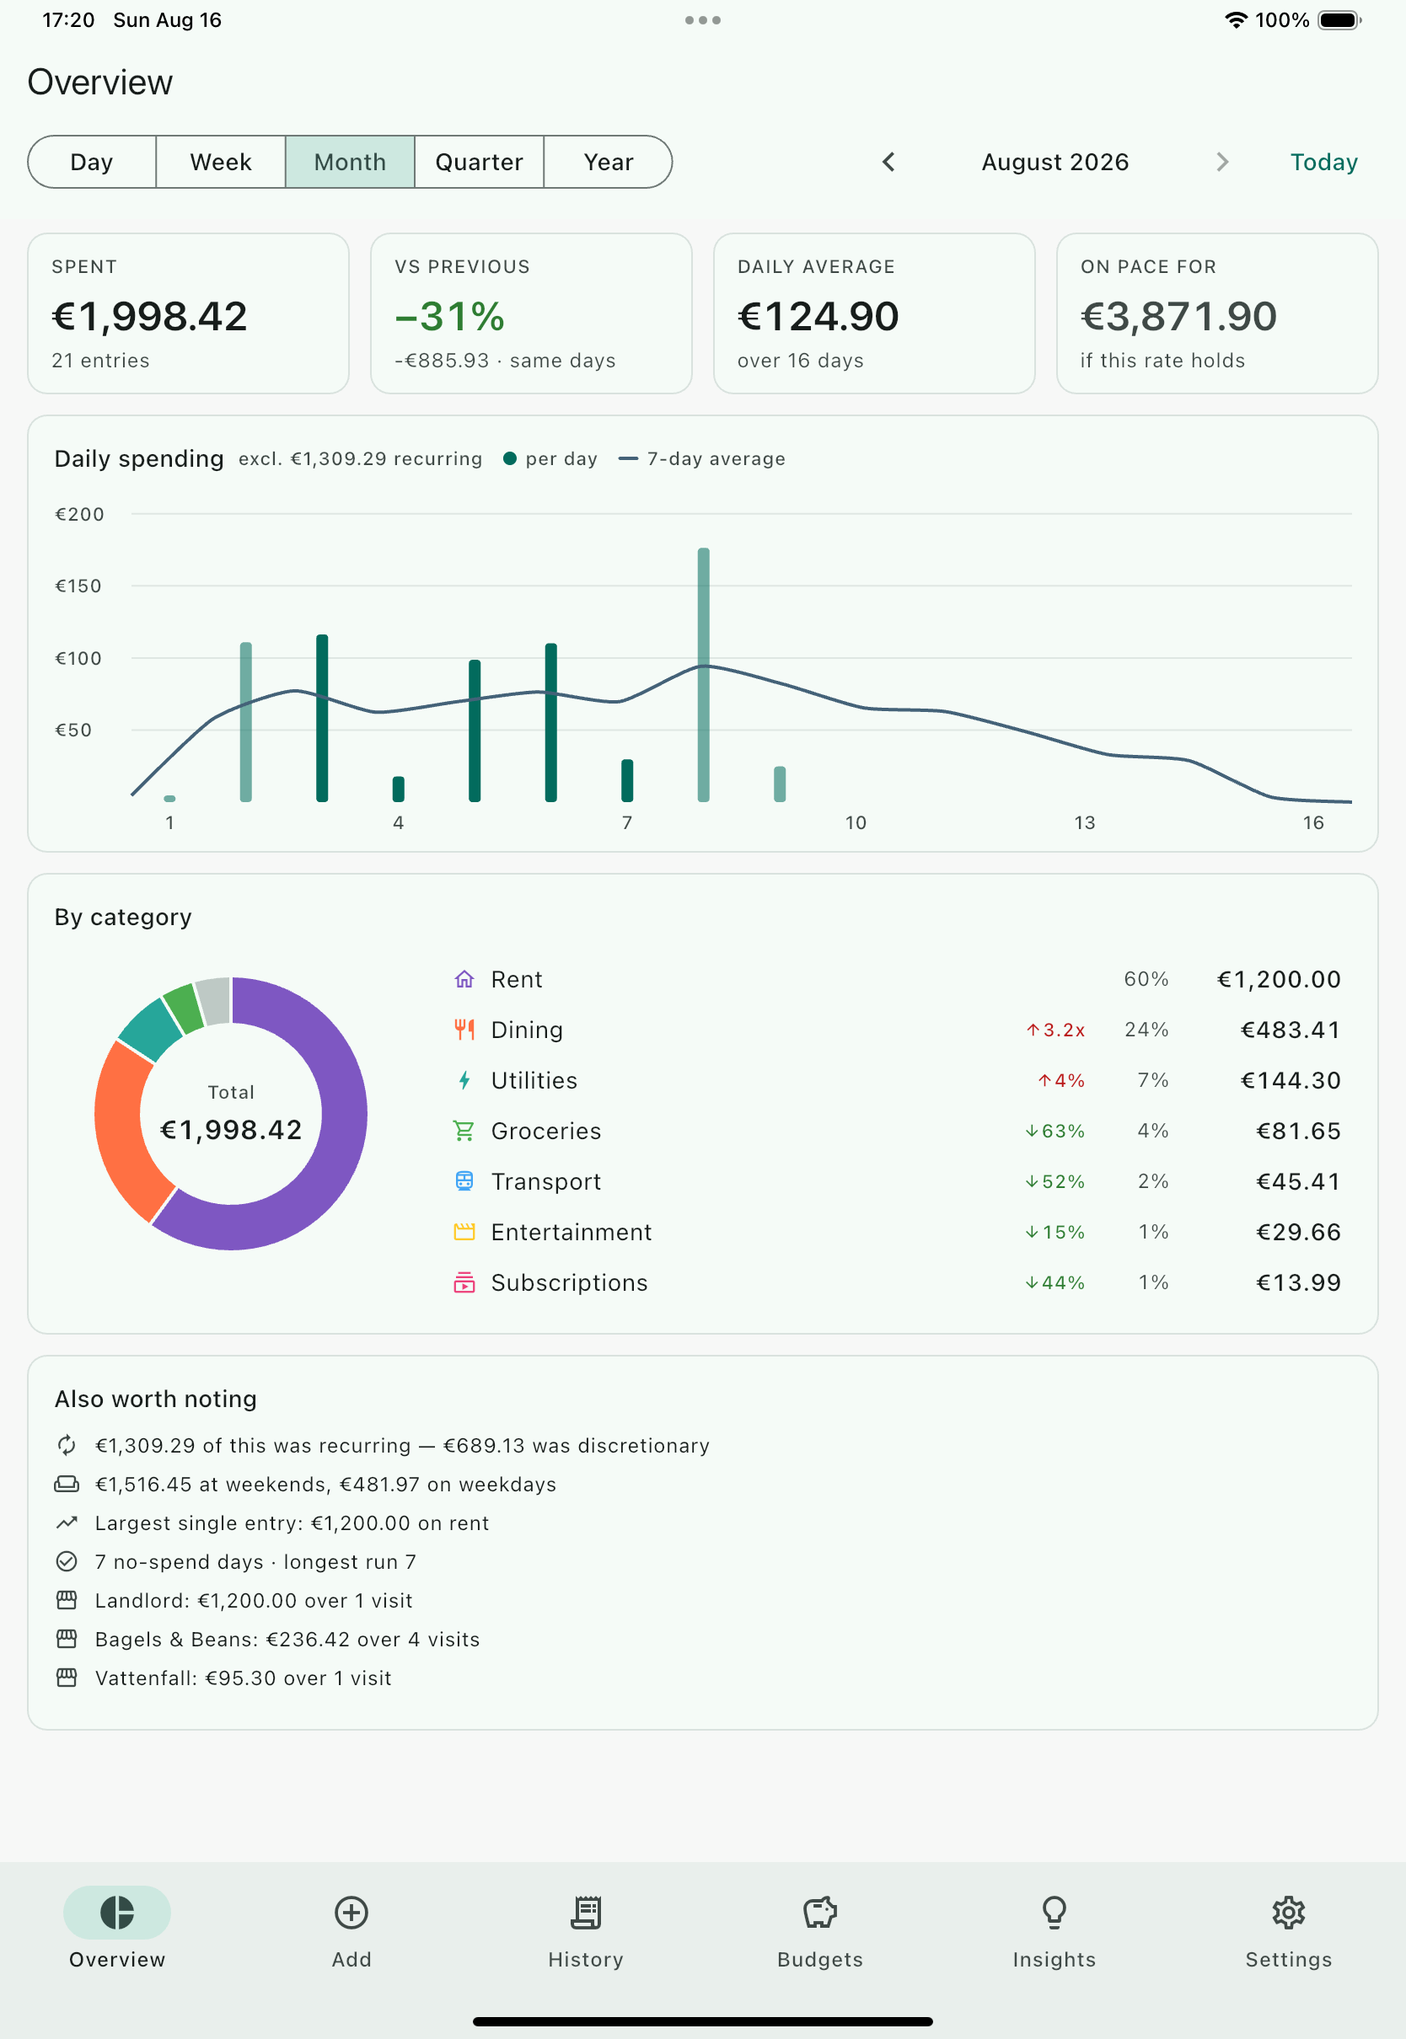
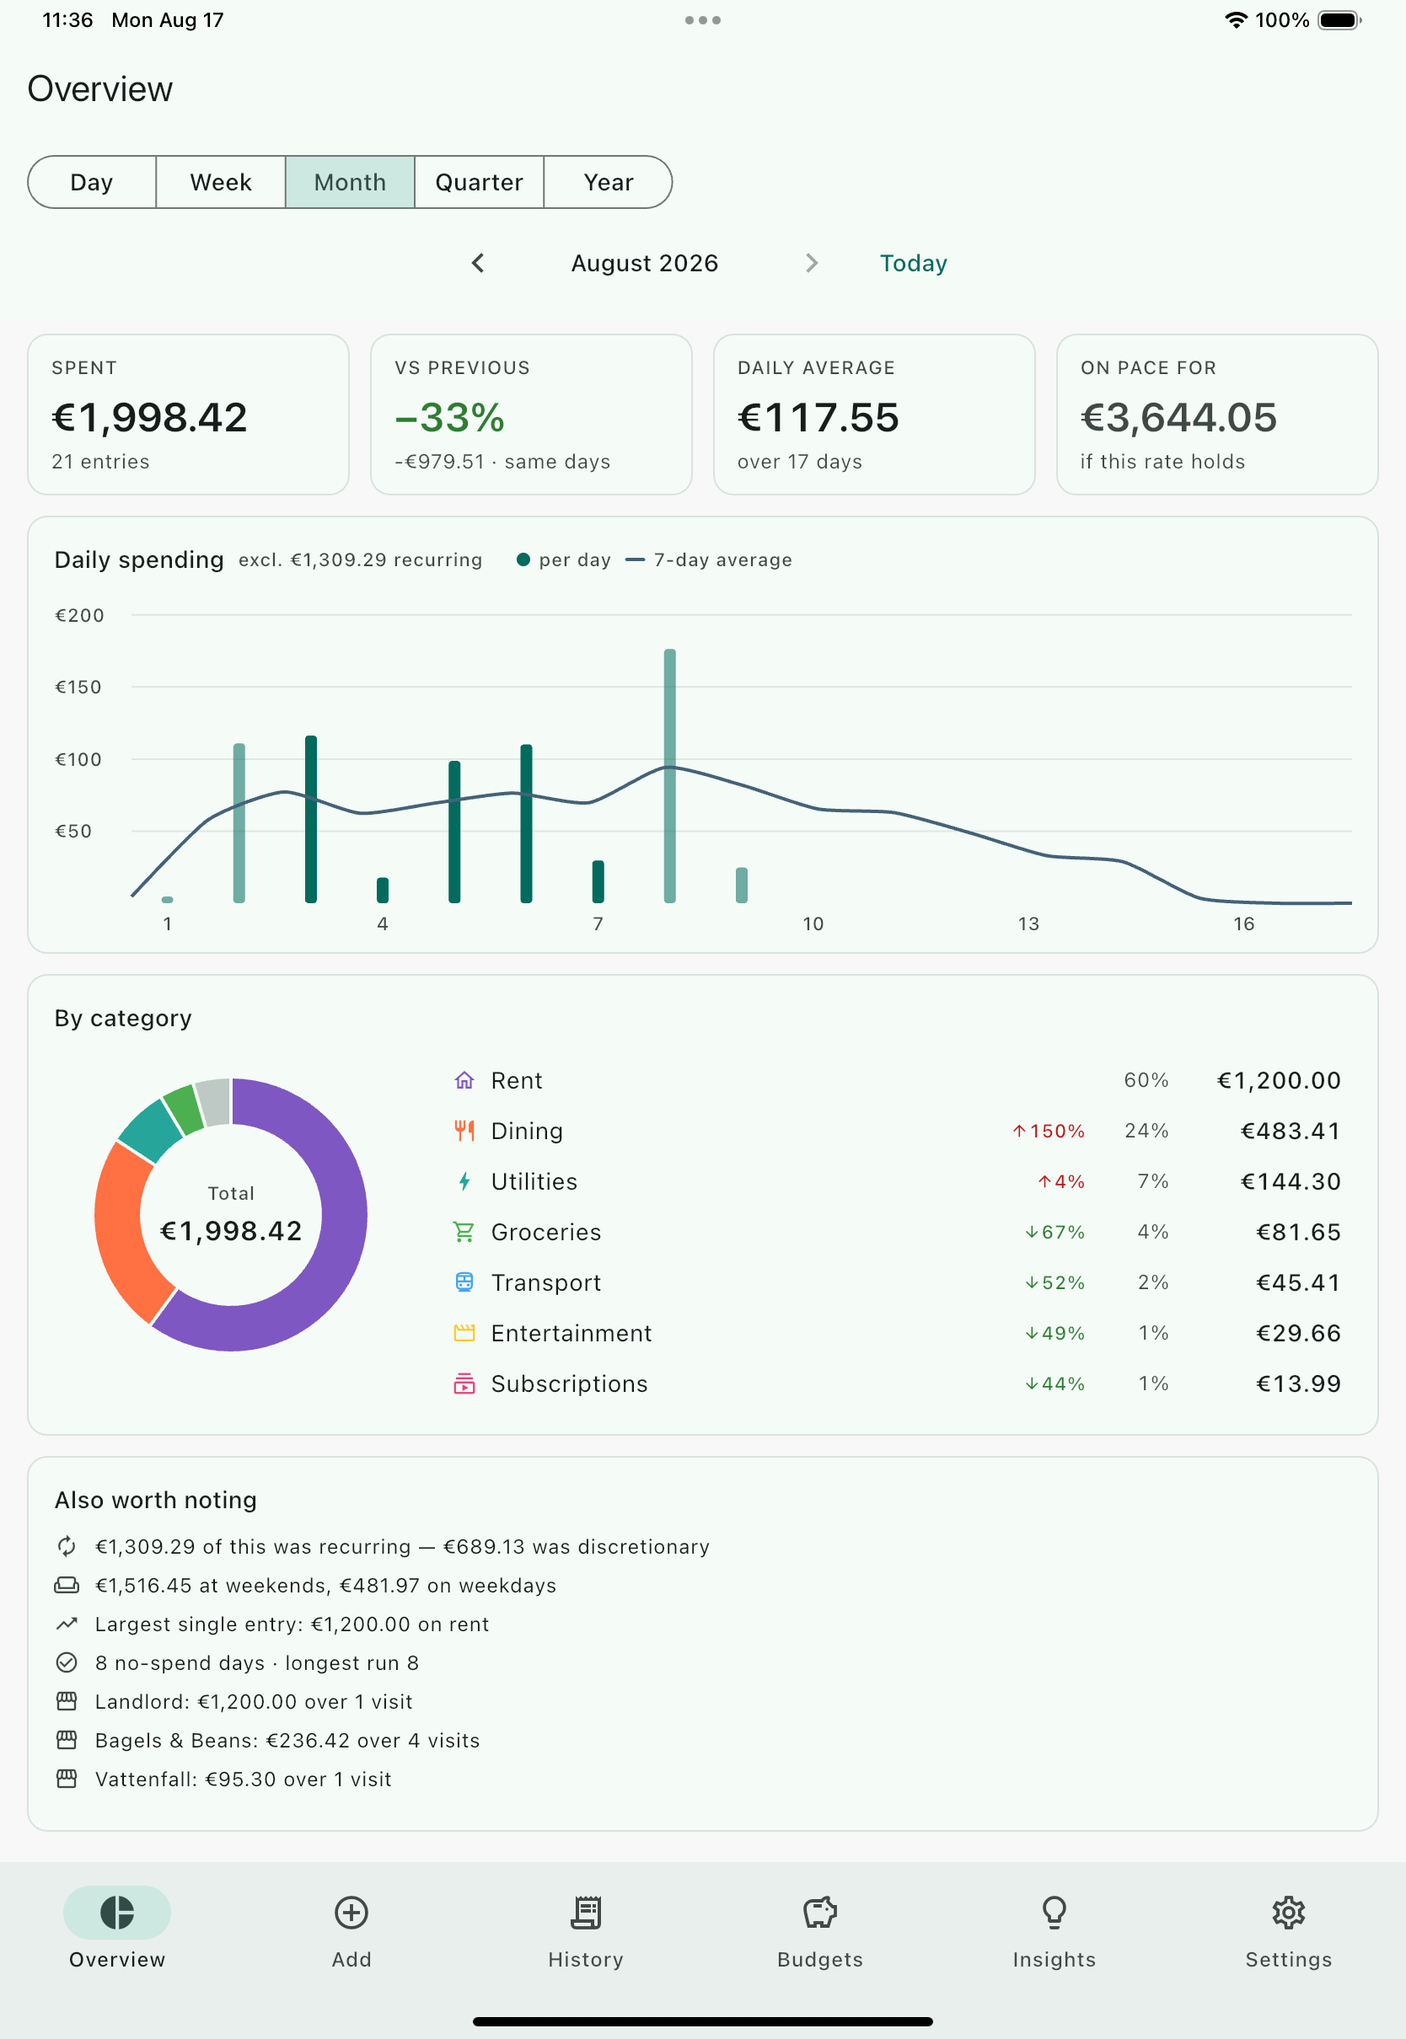
Address the review: one measurement, and a test that proves it
Copilot raised four points on the first pass. All four were correct, and
the first two were defects I introduced.

The width band. The AppBar's reserved height was computed from the raw
MediaQuery width while the bar decided its own layout from LayoutBuilder
constraints — which are narrower, because ContentWidth clamps to 1000 and
the bar's own padding takes 32 more. Between 730 and 762pt the two
disagreed: the bar stacked under a slot sized for one row, clipping the
title again.

Rather than reconcile the two numbers, the bar has moved out of
AppBar.bottom and into the top of the body. A PreferredSize is handed a
height instead of measuring its child, so anything in that slot whose
height depends on layout has to be measured twice. In the body it simply
takes the height it needs, and the whole class of bug goes with it.

The nested Row. The chart header's Wrap had a Row as its first child, so
that pair could still overflow on its own while the Wrap around it sat
with room to spare. All four items are direct children now.

The threshold was also wrong on its own terms. Measured against the
rendered iPad at 802pt the row wanted about 785 — seventeen points of
headroom, which "September 2026" would have swallowed. It is 960 now,
which stacks the iPad rather than risking a clipped one.

The test. There was no coverage, which is exactly why three overflows
shipped: every existing widget test runs on a 1280x900 surface. The new
[…]

diff --git a/lib/features/dashboard/dashboard_screen.dart b/lib/features/dashboard/dashboard_screen.dart
@@ -19,41 +19,51 @@ class DashboardScreen extends ConsumerWidget {
   Widget build(BuildContext context, WidgetRef ref) {
     final summaryAsync = ref.watch(periodSummaryProvider);
 
-    // The period bar stacks into two rows below [_PeriodBar.wideEnough], and
-    // an AppBar bottom is given a fixed height rather than measuring its child
-    // — so a single figure here clips the title on a phone.
-    final stacked = MediaQuery.sizeOf(context).width < _PeriodBar.wideEnough;
-
+    // The period bar sits at the top of the body rather than in the AppBar's
+    // `bottom`.
+    //
+    // A PreferredSize is given a height rather than measuring its child, so
+    // putting a bar there that changes height means computing that height
+    // separately from the layout that produces it — two measurements that
+    // have to agree, and did not: there was a band of widths where the bar
+    // stacked while only the single-row height had been reserved, clipping
+    // the title. Here the bar simply takes the height it needs.
     return Scaffold(
-      appBar: AppBar(
-        title: const Text('Overview'),
-        centerTitle: false,
-        bottom: PreferredSize(
-          preferredSize: Size.fromHeight(stacked ? 104 : 50),
-          child: const ContentWidth(maxWidth: 1000, child: _PeriodBar()),
-        ),
-      ),
-      body: summaryAsync.when(
-        loading: () => const Center(child: CircularProgressIndicator()),
-        error: (e, _) =>
-            Center(child: Text('Could not analyse this period: $e')),
-        data: (summary) => ContentWidth(
-          maxWidth: 1000,
-          child: summary.isEmpty
-              ? const _EmptyPeriod()
-              : ListView(
-                  padding: const EdgeInsets.fromLTRB(16, 8, 16, 32),
-                  children: [
-                    SummaryCards(summary: summary),
-                    const SizedBox(height: 12),
-                    DailySpendChart(summary: summary),
-                    const SizedBox(height: 12),
-                    CategoryBreakdown(summary: summary),
-                    const SizedBox(height: 12),
-                    _FootNotes(summary: summary),
-                  ],
-                ),
-        ),
+      appBar: AppBar(title: const Text('Overview'), centerTitle: false),
+      body: Column(
+        children: [
+          Material(
+            color: Theme.of(context).appBarTheme.backgroundColor,
+            child: const ContentWidth(
+              maxWidth: _PeriodBar.contentMaxWidth,
+              child: _PeriodBar(),
+            ),
+          ),
+          Expanded(
+            child: summaryAsync.when(
+              loading: () => const Center(child: CircularProgressIndicator()),
+              error: (e, _) =>
+                  Center(child: Text('Could not analyse this period: $e')),
+              data: (summary) => ContentWidth(
+                maxWidth: 1000,
+                child: summary.isEmpty
+                    ? const _EmptyPeriod()
+                    : ListView(
+                        padding: const EdgeInsets.fromLTRB(16, 8, 16, 32),
+                        children: [
+                          SummaryCards(summary: summary),
+                          const SizedBox(height: 12),
+                          DailySpendChart(summary: summary),
+                          const SizedBox(height: 12),
+                          CategoryBreakdown(summary: summary),
+                          const SizedBox(height: 12),
+                          _FootNotes(summary: summary),
+                        ],
+                      ),
+              ),
+            ),
+          ),
+        ],
       ),
     );
   }
@@ -63,12 +73,18 @@ class DashboardScreen extends ConsumerWidget {
 class _PeriodBar extends ConsumerWidget {
   const _PeriodBar();
 
-  /// Width at which the segments and the stepper fit on one line.
+  static const contentMaxWidth = 1000.0;
+
+  /// Width the bar itself needs before the segments and the stepper are put on
+  /// one line.
   ///
-  /// Five segments plus a labelled stepper need roughly this much; below it
-  /// they overflowed the row outright on an iPhone. Shared with the AppBar,
-  /// which has to reserve the taller slot for the stacked layout.
-  static const wideEnough = 730.0;
+  /// Deliberately generous. Measured against a rendered iPad at 802pt the row
+  /// wanted about 785 — seventeen points of headroom, which "September 2026"
+  /// would have swallowed, never mind a longer locale or a wider font. The
+  /// first attempt at this number was 730 and overflowed in production for
+  /// exactly that reason. Stacking early costs one line; guessing low costs a
+  /// clipped layout, so the bias belongs on this side.
+  static const wideEnough = 960.0;
 
   @override
   Widget build(BuildContext context, WidgetRef ref) {
@@ -123,10 +139,11 @@ class _PeriodBar extends ConsumerWidget {
       TextButton(onPressed: notifier.jumpToToday, child: const Text('Today')),
     ];
 
-    // Below the threshold the two groups stack, and the segments scroll
-    // horizontally so the row cannot overflow again at any width or text scale.
+    // Measured here rather than from the window, so the decision is made
+    // against the width the bar is actually given. Stacked, neither group can
+    // overflow: the segments scroll and the stepper wraps.
     return Padding(
-      padding: const EdgeInsets.fromLTRB(16, 0, 16, 10),
+      padding: const EdgeInsets.fromLTRB(16, 8, 16, 10),
       child: LayoutBuilder(
         builder: (context, constraints) {
           if (constraints.maxWidth >= wideEnough) {
@@ -140,8 +157,9 @@ class _PeriodBar extends ConsumerWidget {
                 child: periods,
               ),
               const SizedBox(height: 4),
-              Row(
-                mainAxisAlignment: MainAxisAlignment.center,
+              Wrap(
+                alignment: WrapAlignment.center,
+                crossAxisAlignment: WrapCrossAlignment.center,
                 children: stepper,
               ),
             ],

diff --git a/test/widget/dashboard_layout_test.dart b/test/widget/dashboard_layout_test.dart
@@ -1,0 +1,131 @@
+import 'package:drift/drift.dart' show Value;
+import 'package:flutter/material.dart';
+import 'package:flutter_riverpod/flutter_riverpod.dart';
+import 'package:flutter_test/flutter_test.dart';
+import 'package:spend/core/day.dart';
+import 'package:spend/core/money.dart';
+import 'package:spend/core/providers.dart';
+import 'package:spend/data/db/database.dart';
+import 'package:spend/features/dashboard/dashboard_screen.dart';
+
+/// Overflow guards for the dashboard at phone widths.
+///
+/// The existing widget tests all run on a 1280x900 surface, which is why three
+/// separate RenderFlex overflows shipped without CI noticing. A `RenderFlex
+/// overflowed` error is reported to the framework rather than thrown, so it
+/// surfaces here through `tester.takeException()`.
+void main() {
+  late SpendDatabase db;
+
+  setUp(() => db = SpendDatabase.memory());
+  tearDown(() => db.close());
+
+  /// The dashboard needs data: an empty period renders a placeholder instead
+  /// of the charts, which would make every one of these tests pass vacuously.
+  Future<void> seed() async {
+    for (var i = 0; i < 12; i++) {
+      await db
+          .into(db.transactions)
+          .insert(
+            TransactionsCompanion.insert(
+              amountMinor: Money(1240 + i * 100),
+              categoryId: (i % 4) + 1,
+              occurredOn: Day.today().firstOfMonth.addDays(i),
+              merchant: Value('Merchant $i'),
+            ),
+          );
+    }
+    // A recurring cost, so the chart header renders its "excl. … recurring"
+    // note — the widest of its four items and the one that overflowed.
+    await db
+        .into(db.transactions)
+        .insert(
+          TransactionsCompanion.insert(
+            amountMinor: Money(120000),
+            categoryId: 4,
+            occurredOn: Day.today().firstOfMonth,
+            merchant: const Value('Landlord'),
+          ),
+        );
+  }
+
+  Future<void> pumpAt(
+    WidgetTester tester,
+    Size size, {
+    double textScale = 1.0,
+  }) async {
+    tester.view.physicalSize = size;
+    tester.view.devicePixelRatio = 1.0;
+    addTearDown(tester.view.reset);
+
+    await tester.pumpWidget(
+      ProviderScope(
+        overrides: [databaseProvider.overrideWithValue(db)],
+        child: MaterialApp(
+          home: MediaQuery(
+            data: MediaQueryData(
+              size: size,
+              textScaler: TextScaler.linear(textScale),
+            ),
+            child: const DashboardScreen(),
+          ),
+        ),
+      ),
+    );
+    await tester.pumpAndSettle();
+  }
+
+  Future<void> disposeHost(WidgetTester tester) async {
+    await tester.pumpWidget(const SizedBox());
+    await tester.pump(const Duration(milliseconds: 1));
+  }
+
+  /// Widths worth pinning, and why each one is here.
+  const widths = <String, double>{
+    'iPhone portrait': 402, // where the 328pt and 84pt overflows appeared
+    'iPhone landscape': 874,
+    'iPad portrait': 834,
+    'iPad landscape': 1194,
+    // 730-762 is the band where the AppBar height and the bar's own layout
+    // used to disagree, stacking the bar under a slot sized for one row.
+    'inside the old disagreement band': 745,
+    'at its upper edge': 762,
+    'desktop': 1280,
+    'wide desktop': 1600,
+  };
+
+  for (final entry in widths.entries) {
+    testWidgets('lays out without overflow at ${entry.key}', (tester) async {
+      await seed();
+      await pumpAt(tester, Size(entry.value, 900));
+
+      expect(
+        tester.takeException(),
+        isNull,
+        reason: '${entry.key} (${entry.value}pt) overflowed',
+      );
+      await disposeHost(tester);
+    });
+  }
+
+  testWidgets('the title survives the stacked bar', (tester) async {
+    await seed();
+    await pumpAt(tester, const Size(402, 900));
+
+    // The regression this guards is the AppBar reserving the single-row height
+    // while the bar stacked, which pushed the title out of its own slot.
+    expect(find.text('Overview'), findsOneWidget);
+    final title = tester.getRect(find.text('Overview'));
+    expect(title.top, greaterThanOrEqualTo(0));
+    expect(title.height, greaterThan(0));
+    await disposeHost(tester);
+  });
+
+  testWidgets('survives an accessibility text scale', (tester) async {
+    await seed();
+    await pumpAt(tester, const Size(402, 900), textScale: 1.8);
+
+    expect(tester.takeException(), isNull);
+    await disposeHost(tester);
+  });
+}

diff --git a/lib/features/dashboard/widgets/daily_spend_chart.dart b/lib/features/dashboard/widgets/daily_spend_chart.dart
@@ -56,33 +56,32 @@ class DailySpendChart extends ConsumerWidget {
           children: [
             // Wrap rather than Row: the title, the "excl. recurring" note and
             // two legend entries fit on one line in a desktop window and are
-            // 84pt too wide on an iPhone. Wrapping reflows them onto a second
-            // line instead of overflowing, at any width or text scale.
+            // 84pt too wide on an iPhone.
+            //
+            // All four are direct children. Grouping the title and the note
+            // into a nested Row would reintroduce the same failure one level
+            // down — a Row cannot wrap, so at a large enough text scale that
+            // pair alone would overflow while the Wrap around it sat with
+            // space to spare.
             Wrap(
               crossAxisAlignment: WrapCrossAlignment.center,
-              spacing: 12,
+              spacing: 8,
               runSpacing: 4,
               children: [
-                Row(
-                  mainAxisSize: MainAxisSize.min,
-                  children: [
-                    Text('Daily spending', style: theme.textTheme.titleSmall),
-                    if (excludedFixed) ...[
-                      const SizedBox(width: 8),
-                      Tooltip(
-                        message:
-                            'Recurring costs like rent land as one large '
-                            'payment and would flatten the rest of the chart.',
-                        child: Text(
-                          'excl. ${money.format(summary.fixedTotal)} recurring',
-                          style: theme.textTheme.labelSmall?.copyWith(
-                            color: scheme.onSurfaceVariant,
-                          ),
-                        ),
+                Text('Daily spending', style: theme.textTheme.titleSmall),
+                if (excludedFixed)
+                  Tooltip(
+                    message:
+                        'Recurring costs like rent land as one large '
+                        'payment and would flatten the rest of the chart.',
+                    child: Text(
+                      'excl. ${money.format(summary.fixedTotal)} recurring',
+                      style: theme.textTheme.labelSmall?.copyWith(
+                        color: scheme.onSurfaceVariant,
                       ),
-                    ],
-                  ],
-                ),
+                    ),
+                  ),
+                const SizedBox(width: 4),
                 _LegendDot(color: scheme.primary, label: 'per day'),
                 _LegendDot(
                   color: scheme.tertiary,

diff --git a/lib/features/dashboard/widgets/summary_cards.dart b/lib/features/dashboard/widgets/summary_cards.dart
@@ -23,10 +23,14 @@ class SummaryCards extends ConsumerWidget {
         final itemWidth =
             (constraints.maxWidth - spacing * (columns - 1)) / columns;
 
-        // A fixed height rather than an aspect ratio. Aspect ratios couple
-        // card height to window width, so narrowing the window silently
-        // clipped the captions — three lines of text need the space they need
-        // regardless of how wide the card is.
+        // A minimum height rather than an aspect ratio or a fixed one.
+        //
+        // Aspect ratios couple card height to window width, so narrowing the
+        // window silently clipped the captions. A fixed height has the same
+        // fault in the other direction: the card holds three lines of text,
+        // and at an accessibility text scale that text needs more room than
+        // any number chosen here. A minimum keeps the four cards uniform
+        // while letting them grow when the content does.
         final cards = <Widget>[
           _Card(
             label: 'Spent',
@@ -61,7 +65,14 @@ class SummaryCards extends ConsumerWidget {
           runSpacing: spacing,
           children: [
             for (final card in cards)
-              SizedBox(width: itemWidth, height: 96, child: card),
+              ConstrainedBox(
+                constraints: BoxConstraints(
+                  minWidth: itemWidth,
+                  maxWidth: itemWidth,
+                  minHeight: 96,
+                ),
+                child: card,
+              ),
           ],
         );
       },
@@ -133,6 +144,8 @@ class _Card extends StatelessWidget {
         child: Column(
           crossAxisAlignment: CrossAxisAlignment.start,
           mainAxisAlignment: MainAxisAlignment.center,
+          // Sized by its content, so the card grows rather than overflowing.
+          mainAxisSize: MainAxisSize.min,
           children: [
             Text(
               label.toUpperCase(),
